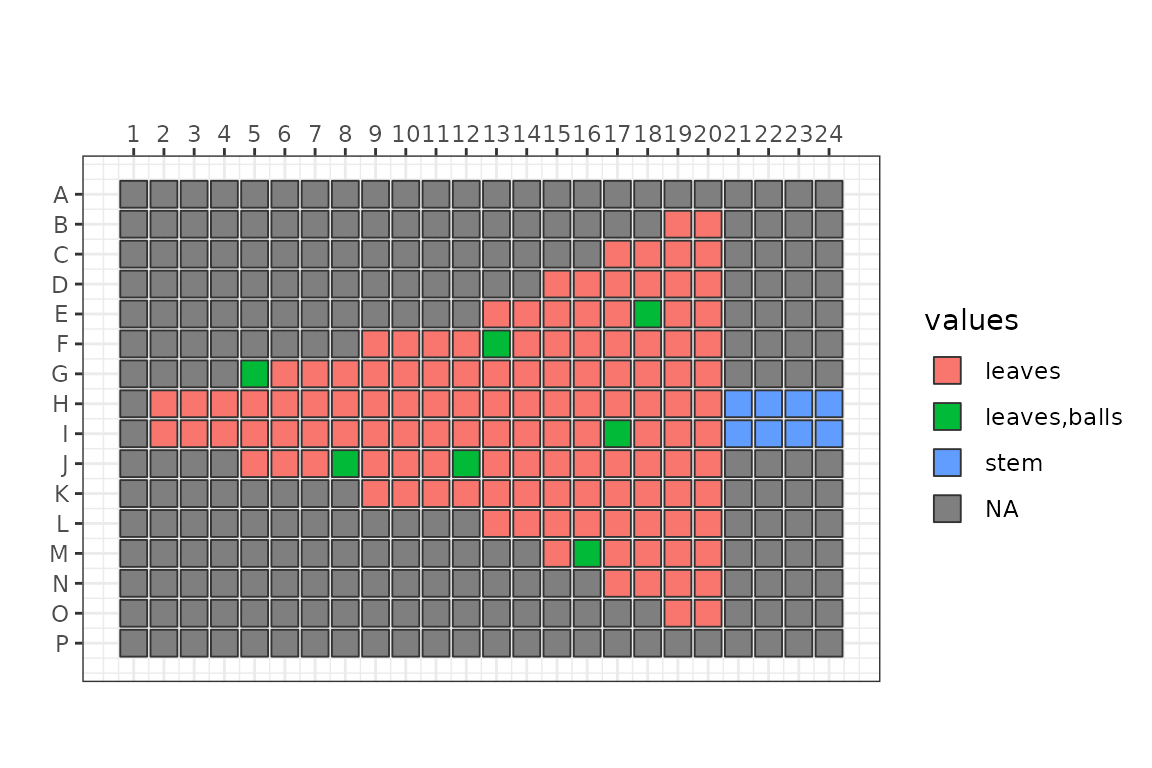
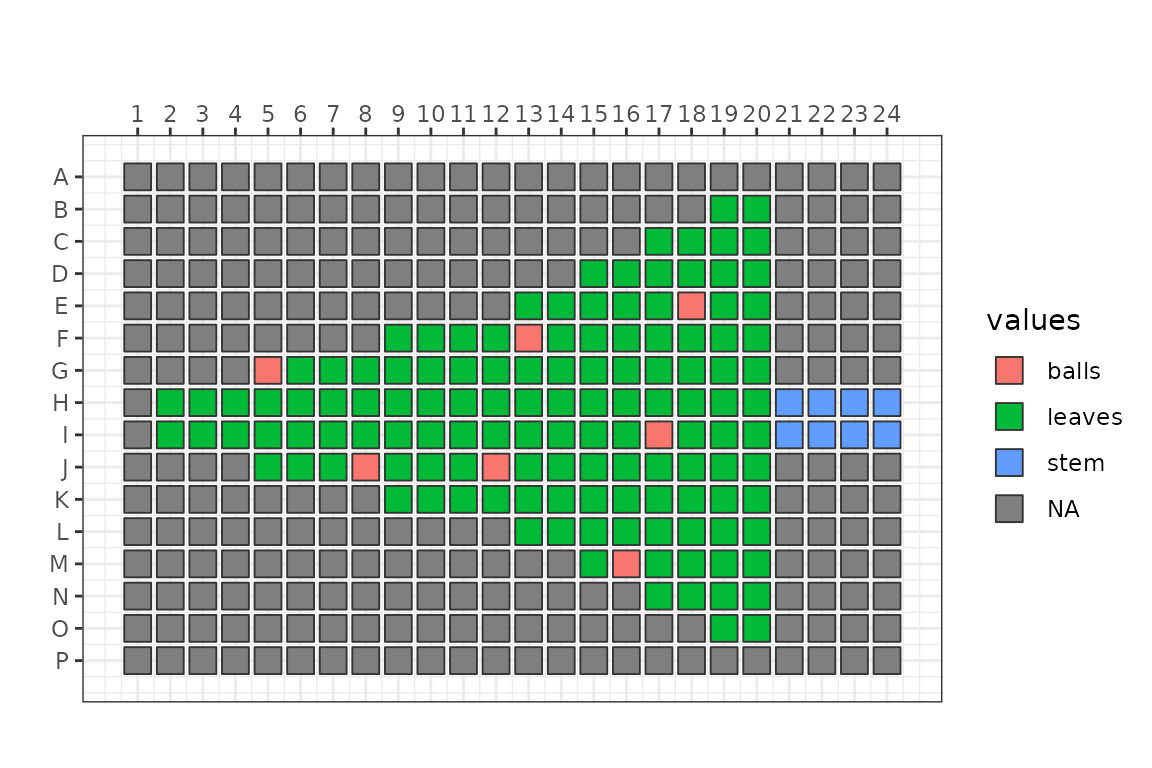
Deploying to gh-pages from @ oist/topcorneR@1e12e4b26e477593ba2f30888bedce2046fa30d1 🚀

diff --git a/articles/XmasTree.html b/articles/XmasTree.html
@@ -129,7 +129,10 @@ expected result of the transfer.</p>
 <span>  <span class="fu"><a href="../reference/set_block.html">set_block</a></span><span class="op">(</span><span class="st">"J12"</span>, <span class="st">"balls"</span>, <span class="fl">1000</span><span class="op">)</span> <span class="op">|&gt;</span></span>
 <span>  <span class="fu"><a href="../reference/set_block.html">set_block</a></span><span class="op">(</span><span class="st">"I17"</span>, <span class="st">"balls"</span>, <span class="fl">1000</span><span class="op">)</span> <span class="op">|&gt;</span></span>
 <span>  <span class="fu"><a href="../reference/set_block.html">set_block</a></span><span class="op">(</span><span class="st">"E18"</span>, <span class="st">"balls"</span>, <span class="fl">1000</span><span class="op">)</span> <span class="op">|&gt;</span></span>
-<span>  <span class="fu"><a href="../reference/set_block.html">set_block</a></span><span class="op">(</span><span class="st">"M16"</span>, <span class="st">"balls"</span>, <span class="fl">1000</span><span class="op">)</span></span></code></pre></div>
+<span>  <span class="fu"><a href="../reference/set_block.html">set_block</a></span><span class="op">(</span><span class="st">"M16"</span>, <span class="st">"balls"</span>, <span class="fl">1000</span><span class="op">)</span></span>
+<span></span>
+<span><span class="co"># Remove leaves where balls are</span></span>
+<span><span class="va">planPlate</span><span class="op">[</span><span class="op">!</span><span class="fu"><a href="https://rdrr.io/r/base/NA.html" class="external-link">is.na</a></span><span class="op">(</span><span class="va">planPlate</span><span class="op">$</span><span class="va">balls</span><span class="op">)</span>,<span class="st">"leaves"</span><span class="op">]</span> <span class="op">&lt;-</span> <span class="cn">NA</span></span></code></pre></div>
 </div>
 <div class="section level3">
 <h3 id="lets-visualise-the-plate-object">Let’s visualise the <code>Plate</code> object<a class="anchor" aria-label="anchor" href="#lets-visualise-the-plate-object"></a>
@@ -175,7 +178,7 @@ ink.</p>
 <div class="sourceCode" id="cb10"><pre class="downlit sourceCode r">
 <code class="sourceCode R"><span><span class="fu"><a href="https://rdrr.io/r/base/colSums.html" class="external-link">colSums</a></span><span class="op">(</span><span class="fu"><a href="https://rdrr.io/r/base/as.data.frame.html" class="external-link">as.data.frame</a></span><span class="op">(</span><span class="va">planPlate</span><span class="op">)</span><span class="op">[</span>,<span class="fu"><a href="https://rdrr.io/r/base/c.html" class="external-link">c</a></span><span class="op">(</span><span class="st">"stem"</span>, <span class="st">"leaves"</span>, <span class="st">"balls"</span><span class="op">)</span><span class="op">]</span>, na.rm <span class="op">=</span> <span class="cn">TRUE</span><span class="op">)</span></span>
 <span><span class="co">#&gt;   stem leaves  balls </span></span>
-<span><span class="co">#&gt;   8000 134000   7000</span></span>
+<span><span class="co">#&gt;   8000 127000   7000</span></span>
 <span><span class="va">sourcePlate</span> <span class="op">&lt;-</span> <span class="fu"><a href="../reference/Plate-class.html">Plate</a></span><span class="op">(</span><span class="st">"384"</span>, deadVolume <span class="op">=</span> <span class="fl">1e4</span>, maxVolume <span class="op">=</span> <span class="fl">1e5</span><span class="op">)</span></span>
 <span><span class="va">sourcePlate</span> <span class="op">&lt;-</span> <span class="va">sourcePlate</span> <span class="op">|&gt;</span></span>
 <span>  <span class="fu"><a href="../reference/set_block.html">set_block</a></span><span class="op">(</span>  <span class="st">"A01"</span>,   <span class="st">"stem"</span>,   <span class="fl">20000</span><span class="op">)</span> <span class="op">|&gt;</span></span>
@@ -199,7 +202,7 @@ ink.</p>
 <span><span class="co">#&gt; Transducer at the following coordinates:</span></span>
 <span><span class="co">#&gt;   Source:      A05</span></span>
 <span><span class="co">#&gt;   Destination: M16</span></span>
-<span><span class="co">#&gt; 149 elements in the log.</span></span>
+<span><span class="co">#&gt; 142 elements in the log.</span></span>
 <span><span class="va">transfers</span> <span class="op">&lt;-</span> <span class="fu"><a href="../reference/showLogs.html">showLogs</a></span><span class="op">(</span><span class="va">echo</span><span class="op">)</span></span>
 <span><span class="fu"><a href="https://rdrr.io/r/utils/head.html" class="external-link">head</a></span><span class="op">(</span><span class="va">transfers</span><span class="op">)</span></span>
 <span><span class="co">#&gt;   from  to  vol what</span></span>
